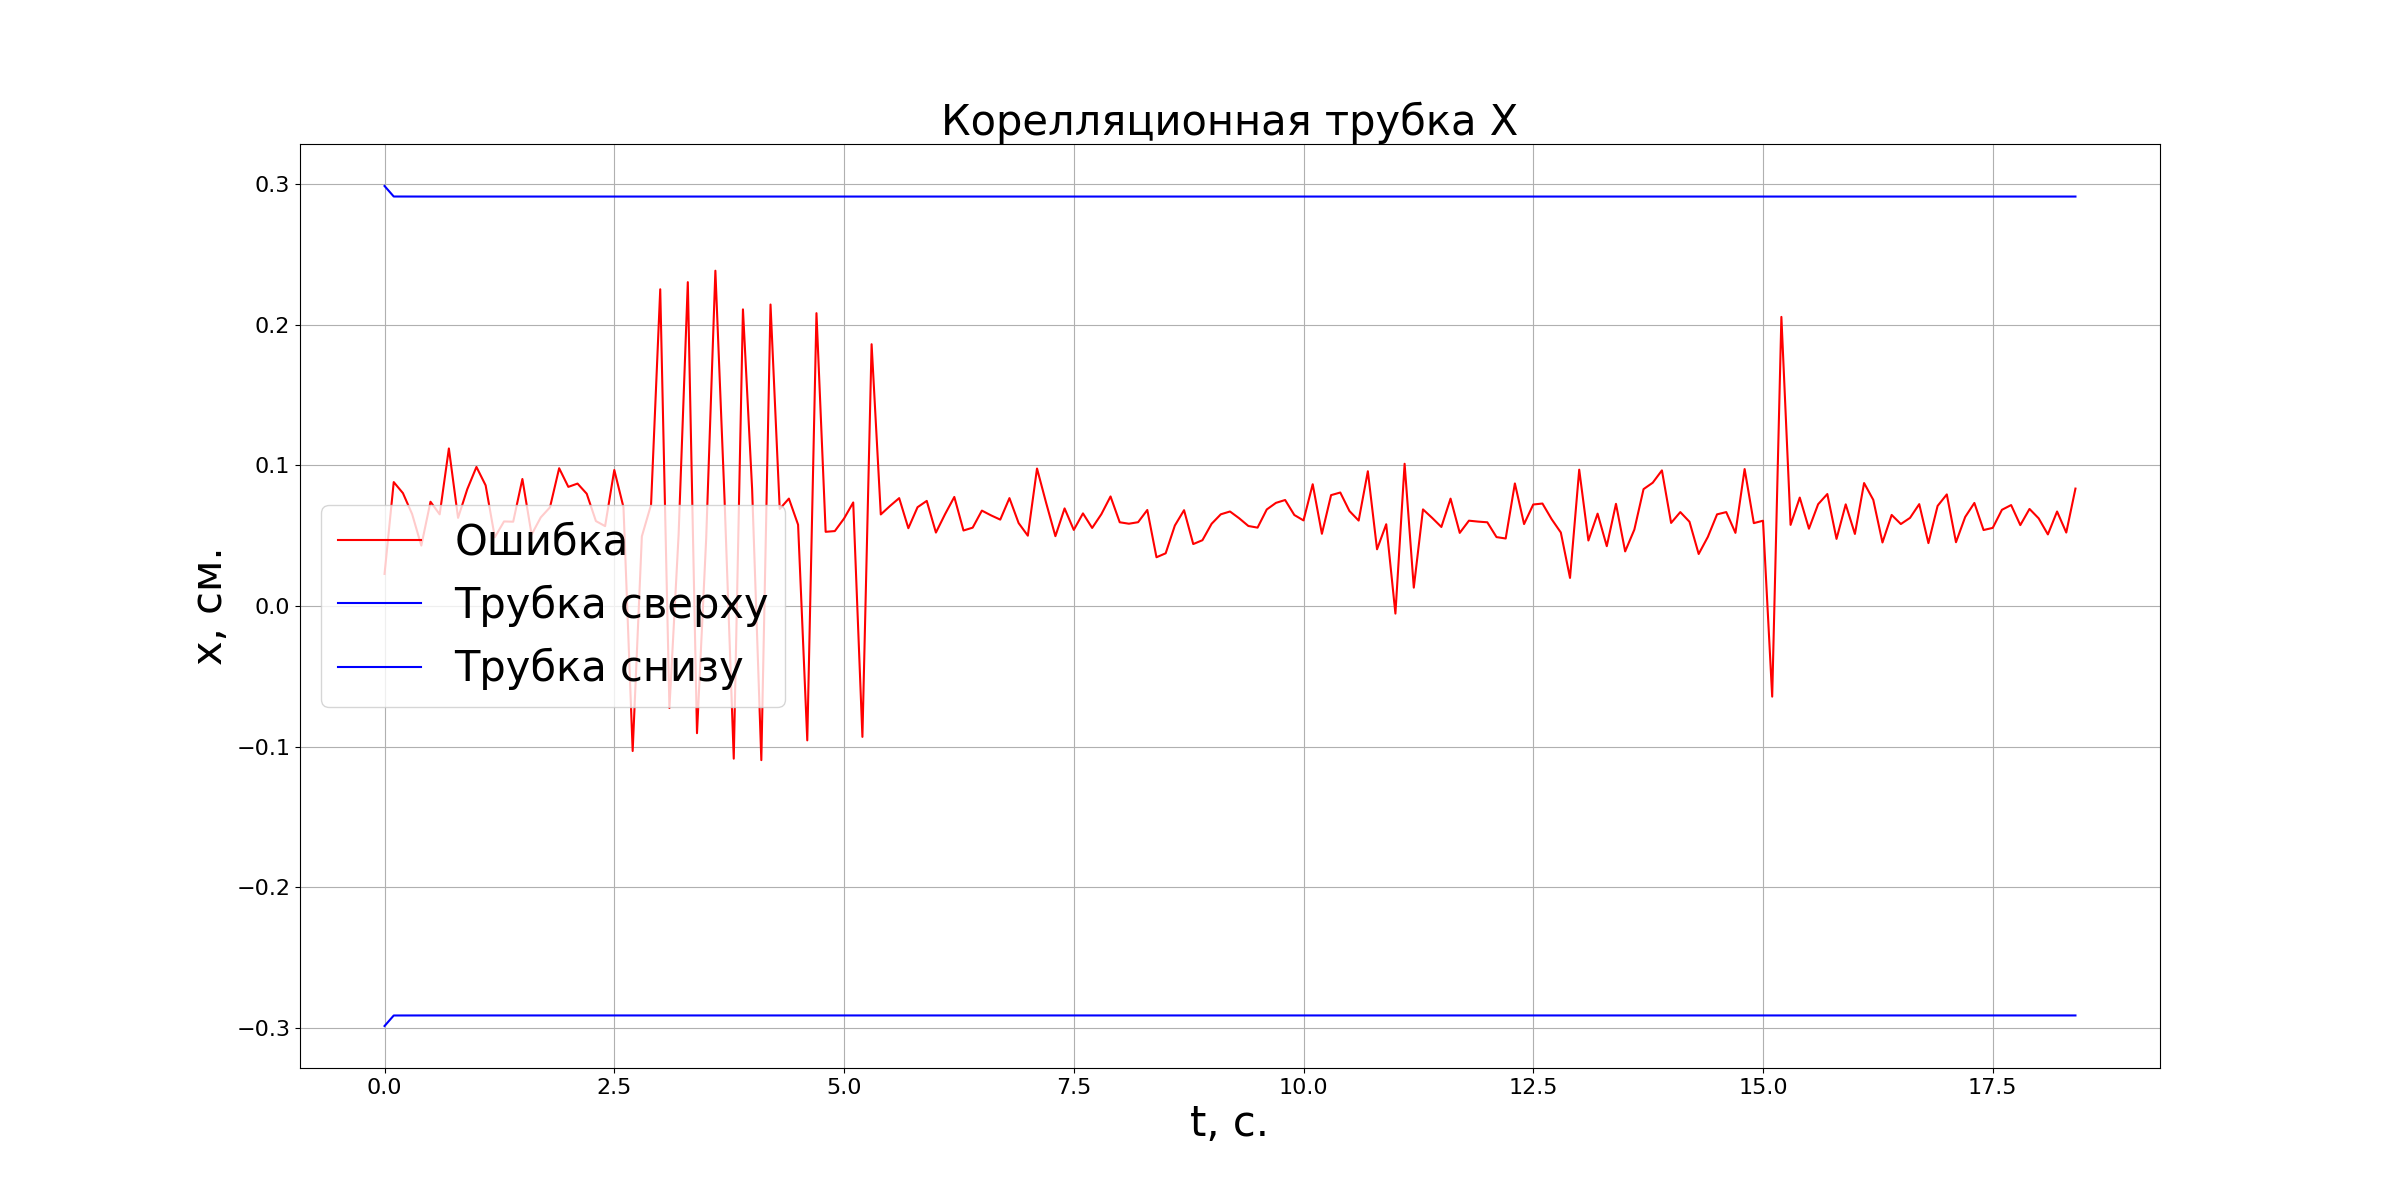
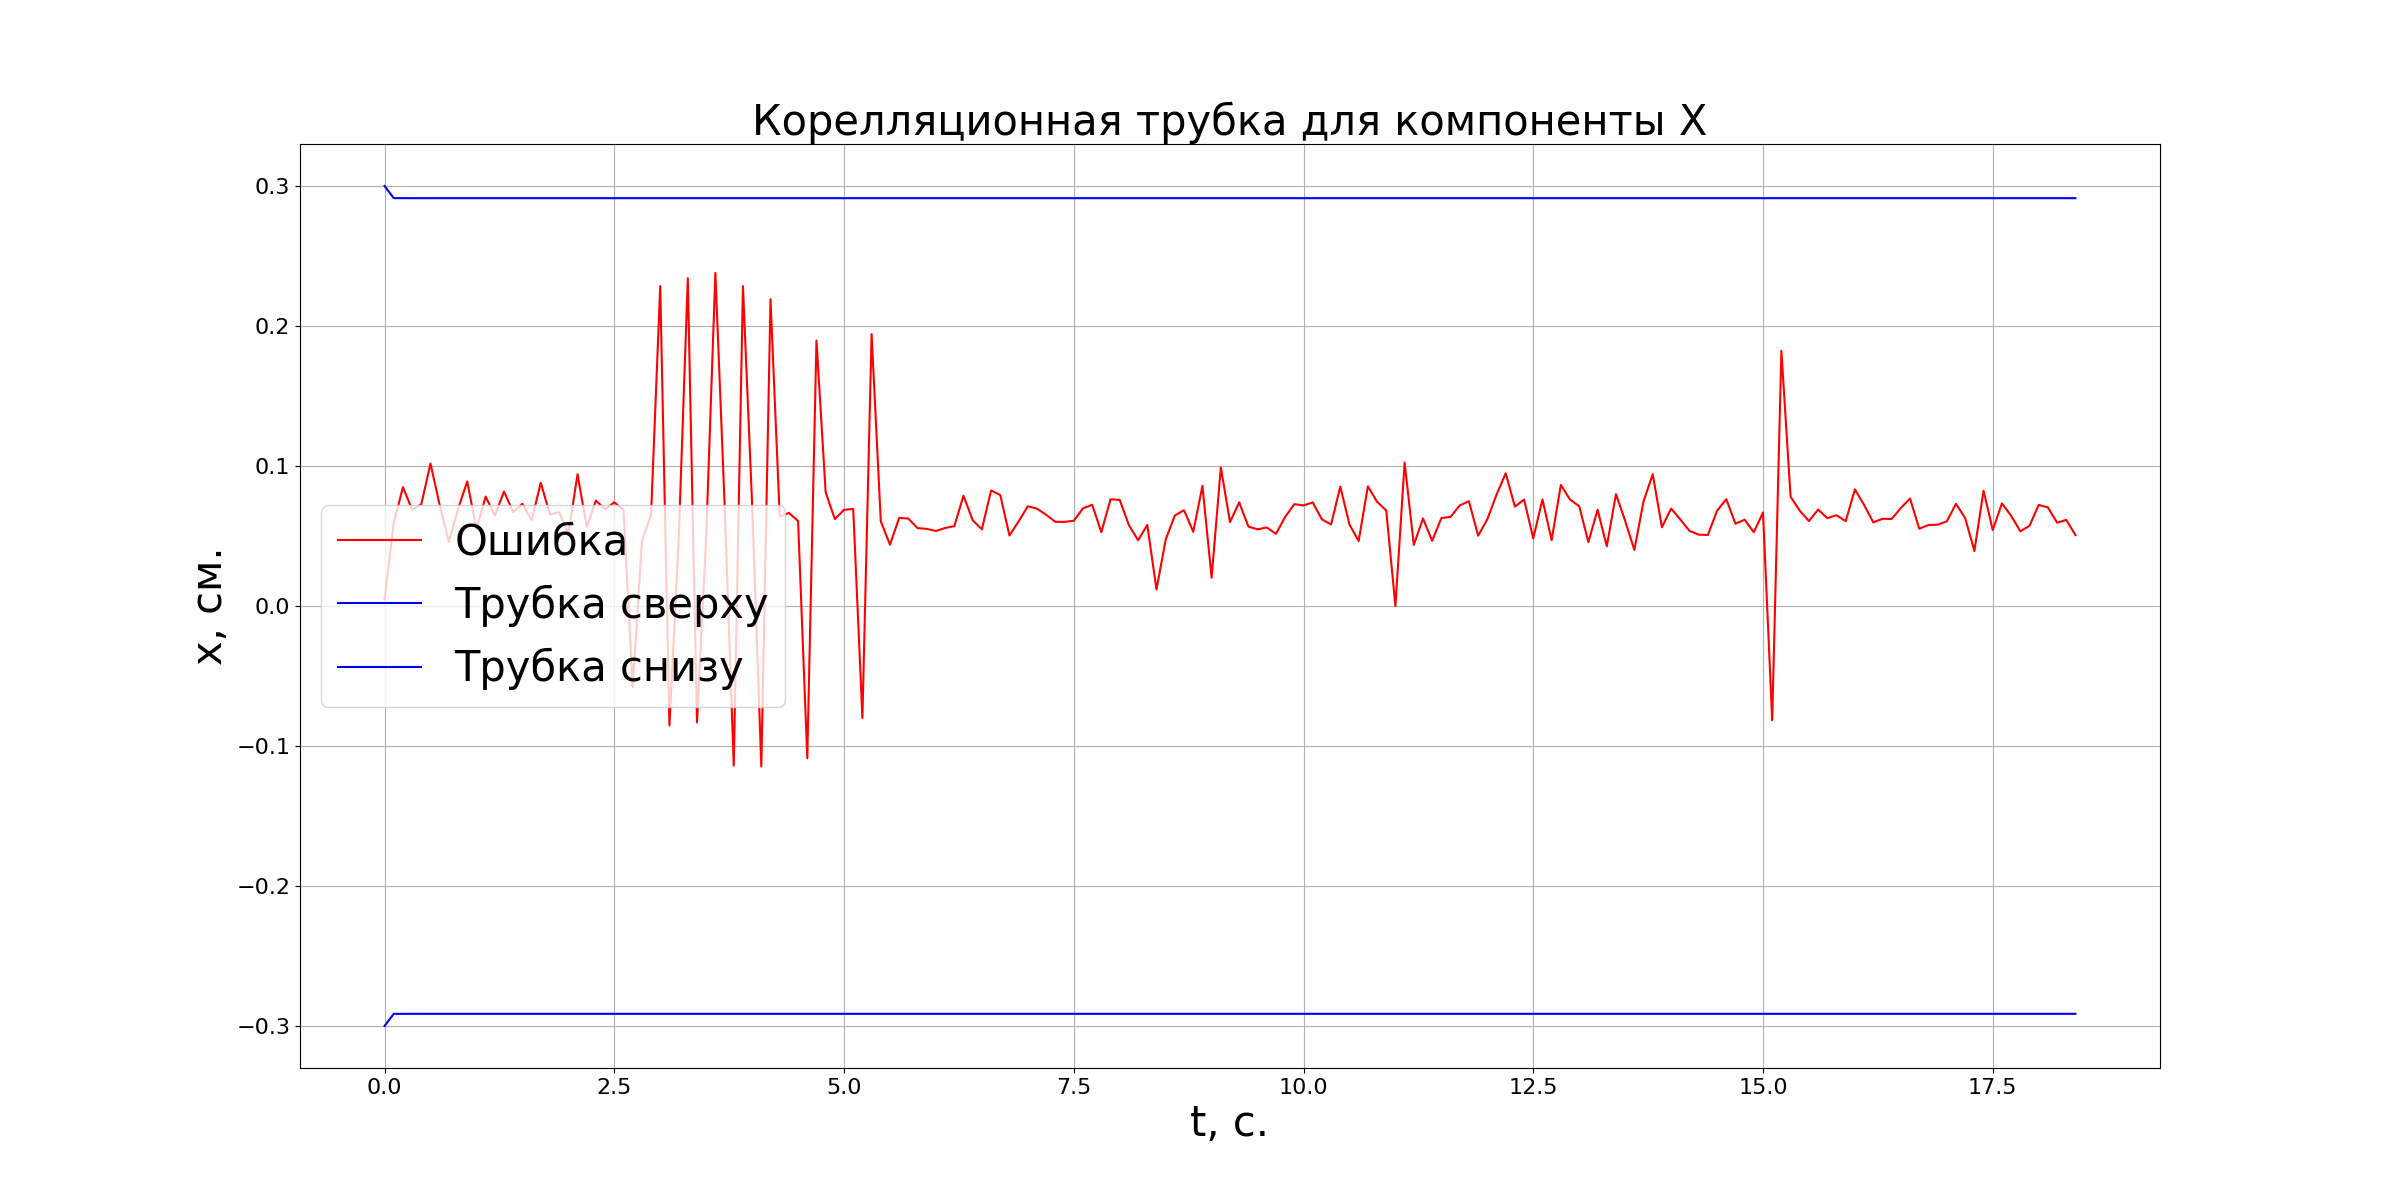
Update

diff --git a/Main.py b/Main.py
@@ -76,13 +76,13 @@ plt.rc('axes', labelsize=30)
 plt.rc('axes',titlesize=30)
 plt.rc('legend', fontsize=30)
 plt.tick_params(axis='both', which='major', labelsize=16)
-plt.title("График Курса") # заголовок
+plt.title("График эволюции угла курса") # заголовок
 plt.xlabel("t, сек.") # ось абсцисс
-plt.ylabel("angle, мм.") # ось ординат
+plt.ylabel("Угол курса, рад.") # ось ординат
 plt.grid()      # включение отображение сетки
-plt.plot(t, a,'r',label="Реальное значение Курса")  # построение графика
-plt.plot(t, afk,'b',label="Результат Курса - ФК")  # построение графика
-plt.plot(t, ai,'g',label="Результат измерения Курса - ФК")  # построение графика
+plt.plot(t, a,'r',label="Реальное значение угла курса")  # построение графика
+plt.plot(t, afk,'b',label="Значение угла курса - ФК")  # построение графика
+plt.plot(t, ai,'g',label="Измерение угла курса")  # построение графика
 plt.legend(loc=0)
 plt.savefig('Эволюция компоненты Курса')
 
@@ -155,7 +155,7 @@ plt.rc('axes', labelsize=30)
 plt.rc('axes',titlesize=30)
 plt.rc('legend', fontsize=30)
 plt.tick_params(axis='both', which='major', labelsize=16)
-plt.title("График эволюции по Y") # заголовок
+plt.title("График эволюции Y") # заголовок
 plt.xlabel("t, с.") # ось абсцисс
 plt.ylabel("y, см.") # ось ординат
 plt.grid()      # включение отображение сетки
@@ -171,7 +171,7 @@ plt.rc('axes', labelsize=30)
 plt.rc('axes',titlesize=30)
 plt.rc('legend', fontsize=30)
 plt.tick_params(axis='both', which='major', labelsize=16)
-plt.title("График эволюции по X") # заголовок
+plt.title("График эволюции X") # заголовок
 plt.xlabel("t, с.") # ось абсцисс
 plt.ylabel("x, см.") # ось ординат
 plt.grid()      # включение отображение сетки
@@ -189,7 +189,7 @@ plt.rc('axes', labelsize=30)
 plt.rc('axes',titlesize=30)
 plt.rc('legend', fontsize=30)
 plt.tick_params(axis='both', which='major', labelsize=16)
-plt.title("Корелляционная трубка X") # заголовок
+plt.title("Корелляционная трубка для компоненты X") # заголовок
 plt.xlabel("t, с.") # ось абсцисс
 plt.ylabel("x, см.") # ось ординат
 plt.grid()      # включение отображение сетки
@@ -204,7 +204,7 @@ plt.rc('axes', labelsize=30)
 plt.rc('axes',titlesize=30)
 plt.rc('legend', fontsize=30)
 plt.tick_params(axis='both', which='major', labelsize=16)
-plt.title("Корелляционная трубка Y") # заголовок
+plt.title("Корелляционная трубка для компоненты Y") # заголовок
 plt.xlabel("t, с.") # ось абсцисс
 plt.ylabel("y, см.") # ось ординат
 plt.grid()      # включение отображение сетки
@@ -220,15 +220,15 @@ plt.rc('axes', labelsize=30)
 plt.rc('axes',titlesize=30)
 plt.rc('legend', fontsize=30)
 plt.tick_params(axis='both', which='major', labelsize=16)
-plt.title("Корелляционная трубка Курса") # заголовок
+plt.title("Корелляционная трубка для угла курса") # заголовок
 plt.xlabel("t, с.") # ось абсцисс
-plt.ylabel("Wz, градусов.") # ось ординат
+plt.ylabel("Угол курса, рад.") # ось ординат
 plt.grid()      # включение отображение сетки
 plt.plot(t, np.asarray(a)-np.asarray(afk),'r',label="Ошибка")  # построение графика
 plt.plot(t, np.sqrt(p_a)*3,'b',label="Трубка сверху")  # построение графика
 plt.plot(t, -np.sqrt(np.asarray(p_a))*3,'b',label="Трубка снизу")  # построение графика
 plt.legend(loc=0)
-plt.savefig('Корелляционная трубка Курса')
+plt.savefig('Корелляционная трубка угла курса')
 
 
 plt.figure(figsize=(24,12))
@@ -236,7 +236,7 @@ plt.rc('axes', labelsize=30)
 plt.rc('axes',titlesize=30)
 plt.rc('legend', fontsize=30)
 plt.tick_params(axis='both', which='major', labelsize=16)
-plt.title("Корелляционная трубка положения робота X") # заголовок
+plt.title("Корелляционная трубка для компоненты X") # заголовок
 plt.xlabel("t, с.") # ось абсцисс
 plt.ylabel("x, см.") # ось ординат
 plt.grid()      # включение отображение сетки
@@ -251,7 +251,7 @@ plt.rc('axes', labelsize=30)
 plt.rc('axes',titlesize=30)
 plt.rc('legend', fontsize=30)
 plt.tick_params(axis='both', which='major', labelsize=16)
-plt.title("Корелляционная трубка положения робота Y") # заголовок
+plt.title("Корелляционная трубка для компоненты Y") # заголовок
 plt.xlabel("t, с.") # ось абсцисс
 plt.ylabel("y, см.") # ось ординат
 plt.grid()      # включение отображение сетки
@@ -272,7 +272,7 @@ plt.xlabel("t, с.") # ось абсцисс
 plt.ylabel("k1") # ось ординат
 plt.grid()      # включение отображение сетки
 plt.plot(t, kx,'r',label="Реальное значение K1")  # построение графика
-plt.plot(t, kxfk,'b',label="Результат - ФК")  # построение графика
+plt.plot(t, kxfk,'b',label="Результат K1 - ФК")  # построение графика
 #plt.plot(t, yi,'g',label="Результат измерения- ФК")  # построение графика
 plt.legend(loc=0)
 plt.savefig('K1')
@@ -287,7 +287,7 @@ plt.xlabel("t, с.") # ось абсцисс
 plt.ylabel("k2") # ось ординат
 plt.grid()      # включение отображение сетки
 plt.plot(t, ky,'r',label="Реальное значение K2")  # построение графика
-plt.plot(t, kyfk,'b',label="Результат - ФК")  # построение графика
+plt.plot(t, kyfk,'b',label="Значение K2 - ФК")  # построение графика
 #plt.plot(t, yi,'g',label="Результат измерения- ФК")  # построение графика
 plt.legend(loc=0)
 plt.savefig('K2')

diff --git a/Model.py b/Model.py
@@ -357,6 +357,7 @@ class Model:
             [0,0,0,0,0,0,0,0,0],
             [0,0,0,0,0,0,0,0,0],
         ])
+
  
         self.__x_p[0]=self.__x_c[0]+U[0]*cos(self.__x_c[2]+U[1])*dt
         self.__x_p[1]=self.__x_c[1]+U[0]*sin(self.__x_c[2]+U[1])*dt
@@ -415,13 +416,13 @@ class Model:
         self.__x_p[8]=0
      
 
-        self.__p_p[0][0]=1
-        self.__p_p[1][1]=1
+        self.__p_p[0][0]=5
+        self.__p_p[1][1]=5
         self.__p_p[2][2]=1
-        self.__p_p[3][3]=1
-        self.__p_p[4][4]=1
-        self.__p_p[5][5]=1
-        self.__p_p[6][6]=1
+        self.__p_p[3][3]=5
+        self.__p_p[4][4]=5
+        self.__p_p[5][5]=5
+        self.__p_p[6][6]=5
         self.__p_p[7][7]=50
         self.__p_p[8][8]=50
    
